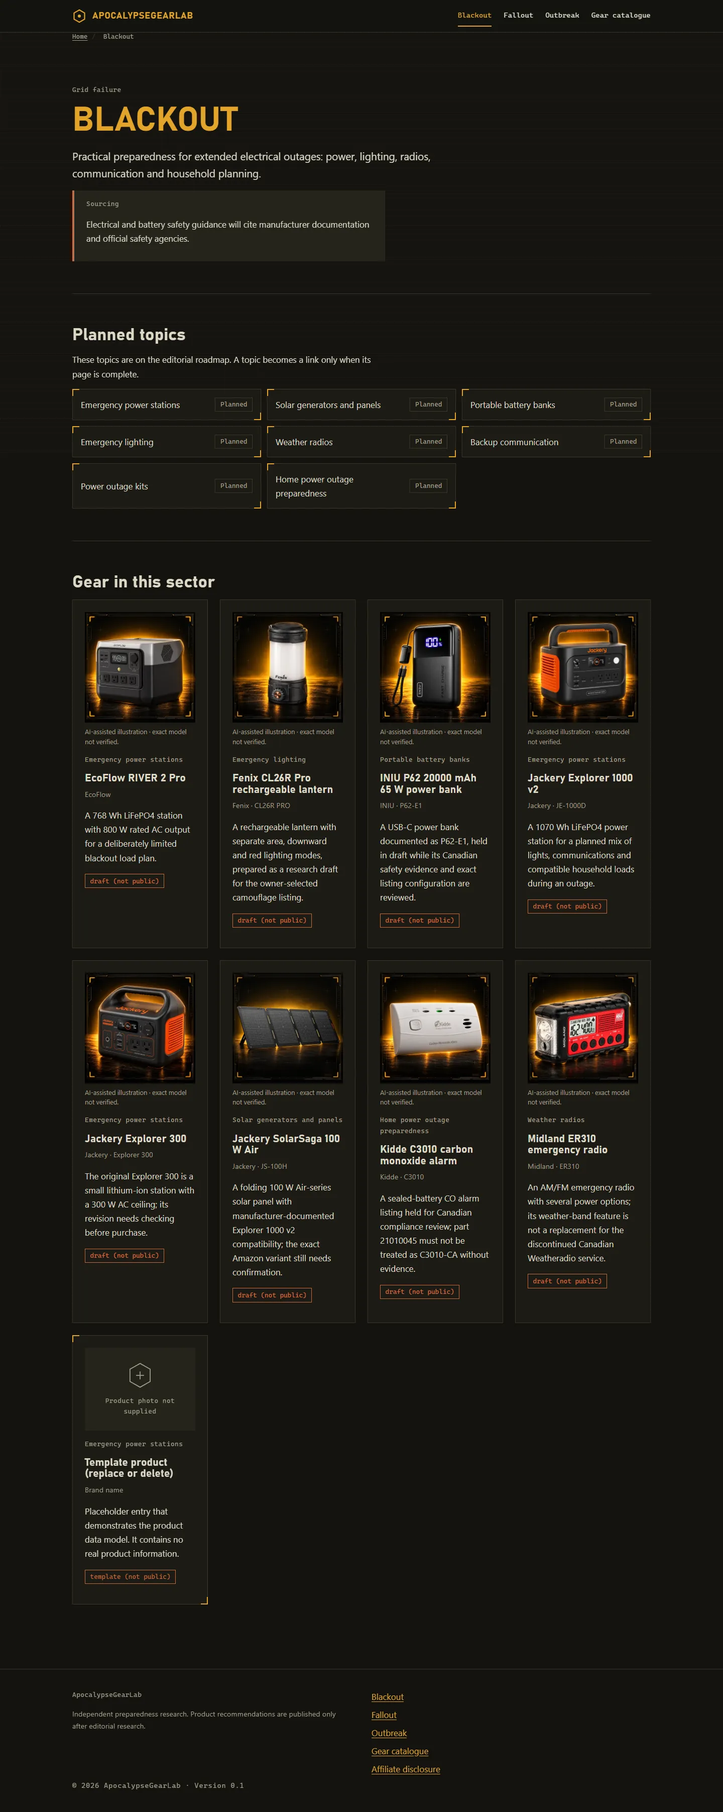
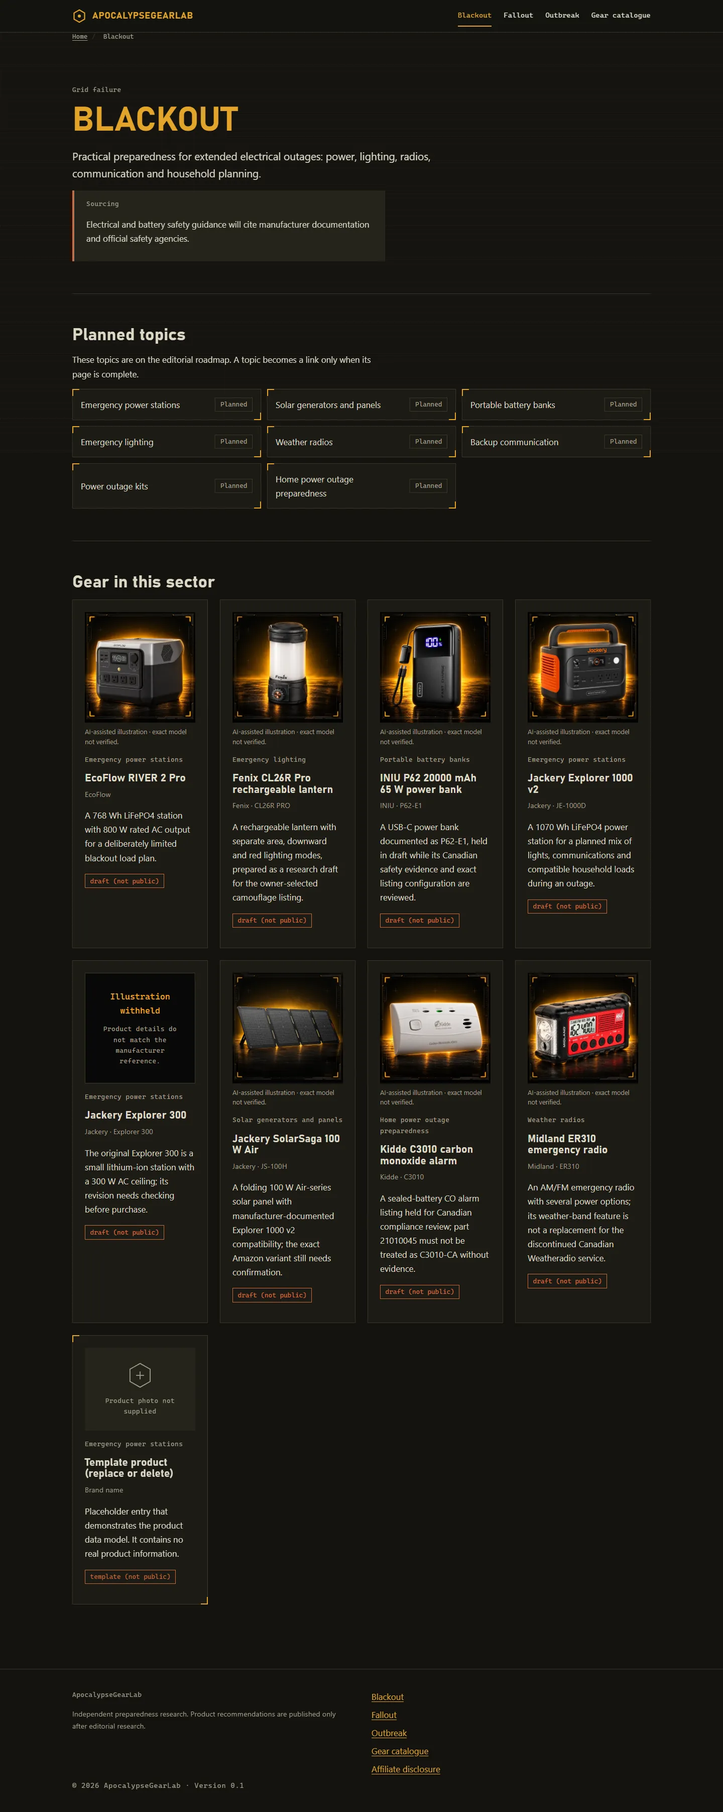
fix(visuals): withhold inaccurate Explorer 300 artwork and enforce media review

Changed region(s): [[0.0938, 0.528, 0.2812, 0.6833]]

diff --git a/tests/browser/media.spec.ts b/tests/browser/media.spec.ts
@@ -58,7 +58,13 @@ test('BLACKOUT artwork stays complete in cards and nested draft pages', async ({
     // Exclude Astro's development UI from site screenshots, without changing site content.
     await page.addStyleTag({ content: 'astro-dev-toolbar { display: none !important; }' });
     const images = page.locator('.product-artwork img');
-    await expect(images).toHaveCount(8);
+    await expect(images).toHaveCount(7);
+    const rejected = page.locator('article.card').filter({ has: page.locator('a[href="/gear/jackery-explorer-300/"]') });
+    await expect(rejected.locator('img')).toHaveCount(0);
+    await expect(rejected.locator('.artwork-withheld')).toContainText('Illustration withheld');
+    expect(await rejected.locator('.artwork-withheld').evaluate((element) => {
+      const box = element.getBoundingClientRect(); return Math.abs(box.width - box.height);
+    })).toBeLessThan(1);
     const sources: string[] = [];
     for (const img of await images.all()) {
       await img.scrollIntoViewIfNeeded();
@@ -72,7 +78,7 @@ test('BLACKOUT artwork stays complete in cards and nested draft pages', async ({
       expect(actual.alt).toMatch(/^AI-assisted illustration/);
       sources.push(actual.src);
     }
-    expect(new Set(sources).size).toBe(8);
+    expect(new Set(sources).size).toBe(7);
     await page.locator('article.card a').first().focus();
     expect(await page.locator('article.card a').first().evaluate((link) => getComputedStyle(link).outlineStyle)).toBe('solid');
     await page.locator('article.card a').first().evaluate((link: HTMLElement) => link.blur());
@@ -81,10 +87,43 @@ test('BLACKOUT artwork stays complete in cards and nested draft pages', async ({
   }
   await page.goto('http://127.0.0.1:4322/gear/fenix-cl26r-pro/');
   await expect(page.locator('.product-artwork--detail')).toHaveCount(1);
-  await expect(page.locator('.product-artwork--detail figcaption')).toContainText('not identified as an exact CL26R Pro depiction');
+  await expect(page.locator('.product-artwork--detail figcaption')).toContainText('consistent with the official CL26R Pro camouflage design');
   const detail = page.locator('.product-artwork--detail img');
   await detail.evaluate((img: HTMLImageElement) => img.decode());
   expect(await detail.evaluate((img: HTMLImageElement) => img.currentSrc)).toMatch(/fenix-lantern-blackout-960\.webp$/);
   await expect(page.locator('meta[name="robots"]')).toHaveAttribute('content', 'noindex, nofollow');
   await page.screenshot({ path: '.tools/qa/phase-3/detail-1920.png', fullPage: true });
+});
+
+test('rejected artwork has no image URL, download or static production asset', async ({ page, request }) => {
+  const downloads: string[] = [];
+  page.on('request', (req) => { if (req.resourceType() === 'image') downloads.push(req.url()); });
+  await page.goto('http://127.0.0.1:4322/gear/jackery-explorer-300/');
+  const artwork = page.locator('.product-artwork--detail');
+  await expect(artwork.locator('img')).toHaveCount(0);
+  await expect(artwork).toContainText('USB-C 100 W');
+  await expect(artwork).toContainText('Unsuitable for commercial publication');
+  expect(downloads.some((url) => url.includes('jackery-explorer-300-blackout'))).toBe(false);
+  for (const width of [480, 960]) {
+    expect((await request.get(`/images/jackery-explorer-300-blackout-${width}.webp`)).status()).toBe(404);
+  }
+  await page.screenshot({ path: '.tools/qa/phase-3/rejected-300.png', fullPage: true, animations: 'disabled' });
+});
+
+test('reviewed illustrations disclose their limits without displaying withdrawn objections', async ({ page }) => {
+  for (const slug of ['fenix-cl26r-pro', 'jackery-explorer-1000-v2']) {
+    await page.goto(`http://127.0.0.1:4322/gear/${slug}/`);
+    const figure = page.locator('.product-artwork--detail');
+    await expect(figure).toHaveAttribute('data-artwork-status', 'reviewed-illustration');
+    await expect(figure.locator('figcaption')).toContainText('consistent with the official');
+    await expect(figure.locator('figcaption')).toContainText('source-photo permissions remain unverified');
+    await expect(figure.locator('figcaption')).not.toContainText('earlier');
+    await figure.locator('img').evaluate((img: HTMLImageElement) => img.decode());
+    for (const width of [375, 1440]) {
+      await page.setViewportSize({ width, height: 900 });
+      await figure.screenshot({ path: `.tools/qa/phase-3/${slug}-${width}.png`, animations: 'disabled' });
+    }
+  }
+  await page.goto('http://127.0.0.1:4322/gear/jackery-explorer-300/');
+  await page.locator('.product-artwork--detail').screenshot({ path: '.tools/qa/phase-3/withheld-300.png', animations: 'disabled' });
 });

diff --git a/tests/media-policy.test.ts b/tests/media-policy.test.ts
@@ -1,0 +1,17 @@
+import assert from 'node:assert/strict';
+import test from 'node:test';
+import { canDisplayProductArtwork, assetReview } from '../src/lib/media-policy';
+
+test('rejected Explorer 300 artwork cannot render in development or production', () => {
+  assert.equal(assetReview('jackery-explorer-300')?.accuracyStatus, 'rejected');
+  assert.equal(canDisplayProductArtwork('jackery-explorer-300', true), false);
+  assert.equal(canDisplayProductArtwork('jackery-explorer-300', false), false);
+});
+test('reference review allows editorial previews without granting commercial permissions', () => {
+  for (const slug of ['fenix-cl26r-pro', 'jackery-explorer-1000-v2']) {
+    assert.equal(assetReview(slug)?.accuracyStatus, 'reviewed-illustration');
+    assert.equal(canDisplayProductArtwork(slug, true), true);
+    assert.equal(canDisplayProductArtwork(slug, false), false);
+  }
+  assert.equal(canDisplayProductArtwork('midland-er310', false), false);
+});

diff --git a/src/lib/media.ts b/src/lib/media.ts
@@ -6,9 +6,10 @@ export const heroMedia = manifest.assets.find((asset) => asset.id === 'hero')!;
 export function productMedia(slug: string): MediaAsset | undefined {
   return manifest.assets.find((asset) => asset.id !== 'hero' && asset.id === slug);
 }
-export function mediaUrl(src: string): string {
+export function mediaUrl(src: string | null): string {
+  if (!src) throw new Error('Rejected artwork has no public image URL');
   return `${import.meta.env.BASE_URL.replace(/\/$/, '')}/${src.replace(/^\//, '')}`;
 }
 export function mediaSrcset(asset: MediaAsset): string {
-  return asset.variants.map((variant) => `${mediaUrl(variant.src)} ${variant.width}w`).join(', ');
+  return asset.variants.filter((variant) => variant.src).map((variant) => `${mediaUrl(variant.src!)} ${variant.width}w`).join(', ');
 }

diff --git a/src/lib/media-policy.ts b/src/lib/media-policy.ts
@@ -1,0 +1,12 @@
+import review from '../data/media/review.json';
+
+type Review = { accuracyStatus: string; caption?: string; note: string; references: string[] };
+export function assetReview(slug: string): Review | undefined {
+  return (review.assets as Record<string, Review>)[slug];
+}
+export function canDisplayProductArtwork(slug: string, development: boolean): boolean {
+  // Review is independent of product approval. Pending reference-photo permissions
+  // must never become commercial approval merely by publishing a product record.
+  if (assetReview(slug)?.accuracyStatus === 'rejected') return false;
+  return development || (review.rightsStatus === 'confirmed-by-owner' && assetReview(slug)?.accuracyStatus === 'reviewed-illustration');
+}

diff --git a/docs/phase-3-final-review.md b/docs/phase-3-final-review.md
@@ -1,0 +1,79 @@
+# Phase 3 — final visual corrections & QA
+
+Reviewed 2026-10-25 on the existing `feat/phase3-blackout-visual-assets` branch. This update belongs to [PR #4](https://github.com/ApocalypseGearLab/apocalypsegearlab.github.io/pull/4). No new PR, merge, deploy or Phase 4 products.
+
+## 1. Findings and corrected review conclusions
+
+Comparison used the supplied 960 px illustrations, official product photos and manufacturer documentation. The owner's original reference-photo files were not separately provided; their provenance/permissions remain unverified. Manufacturer photos were downloaded only into ignored `.tools/references` for inspection and are neither committed nor used as replacement artwork.
+
+### Fenix CL26R Pro — retained, earlier objection withdrawn
+
+The earlier report called the upper marking invented model text. That was not supported: the [official gray camouflage photo](https://www.fenixlighting.com/cdn/shop/files/fenix-cl26r-pro-lantern-gray-combo.jpg?v=1755204684) also shows a similar serial-style marking in the same place. The [Fenix manufacturer page](https://www.fenixlight.com/product/cl26r-pro/) and [Fenix Lighting catalogue](https://www.fenixlighting.com/products/fenix-cl26r-pro-rechargeable-lantern) establish the CL26R Pro design. Housing, diffuser, hanging attachment, bronze dial and indicator row align with the supplied illustration. No material shape/control inconsistency was established by this comparison. The small inscription is not authenticated as a real unit's serial number. The review metadata and rendered caption are corrected; original WebP pixels are unchanged. This does not verify the Amazon listing, exact supplied unit or image rights.
+
+### Jackery Explorer 1000 v2 — retained, badge objection withdrawn
+
+The [official v2 product image](https://ca.jackery.com/cdn/shop/files/E1000v2.png?crop=center&height=400&v=1729760078&width=400) also carries an Explorer 1000 badge **without v2**. Missing v2 on that badge is not a defect. Comparison with the [official port/dimension diagram](https://ca.jackery.com/cdn/shop/files/PPS_fc1094ae-63fa-4ab7-904c-0400e02269dd.jpg?v=1784861865&width=750) supports the housing, raised handle, light, three AC outlets and USB control arrangement. [Jackery's JE-1000D information](https://faq.jackery.com/hc/en-us/articles/52303615153051-Explorer-1000-V2-Basic-Information) confirms 1500 W total AC, two USB-C outputs (100/30 W) and one USB-A output (18 W). The illustration remains promotional: its tiny display characters are not verified readings or technical evidence. Its WebP files are retained unchanged and the misleading earlier objection is removed from active captions/review.
+
+### Jackery Explorer 300 — rejected for commercial publication
+
+The [official legacy product photo](https://cdn.shopify.com/s/files/1/0607/3866/6677/products/PortablePowerStation300.jpg?v=1645603052), [manufacturer manual, page 3 / printed English page 01](https://r.jackery.net/productGuide/Jackery%20Explorer%20300%20user%20manual.pdf) and [technical support page](https://faq.jackery.com/hc/en-us/articles/52303678342683-Explorer-300-Basic-Information) show material differences:
+
+- Illustration: USB-C **100 W**; original model: **60 W maximum**.
+- Illustration: USB-A **15 W** labels; official photo/manual instead distinguish the Quick Charge port and the 5 V/2.4 A USB-A port. Relabeling both identically would misrepresent the actual port functions.
+- Illustration: circular battery graphic and altered small LCD characters; official photo: segmented battery-bar display and different input/output layout.
+- Illustration: **POWER** button marking; official photo: **DISPLAY**.
+
+General body/handle and two-outlet arrangement are recognizable, but a local numeric retouch would leave other false details. No speculative replacement was generated and no manufacturer photograph was copied into the site. The two existing WebP files are **rejected**, retained byte-for-byte in `assets/rejected/blackout/`, and removed from `public/images/`. This is a documented move for audit, not loss of the artwork. They remain visible in the public GitHub repository/history; quarantine means excluded from the built website, not confidential storage.
+
+## 2. Actual implementation corrections
+
+- `src/data/media/review.json`: explicit rejected/reviewed-illustration decisions, dated official references and commercial-rights status.
+- `src/lib/media-policy.ts`: rejects Explorer 300 in development and production. Other illustrations are previews only until the owner confirms source-photo rights and the individual artwork has a reviewed status. Product publication alone cannot grant media approval.
+- `src/components/ProductImage.astro`: square, accessible **Illustration withheld** state with an accurate explanation; no image/srcset request for rejected artwork. Detailed captions now report the corrected Fenix/v2 comparisons.
+- `src/lib/media.ts`: no public URL can be generated for quarantined variants; srcset omits non-public entries.
+- `src/data/media/manifest.json`: records storage path for all 19 variants, with null delivery URLs for the 2 rejected files; hashes/dimensions/bytes unchanged.
+- `scripts/image-sources.json`: replaces the unsupported earlier identity objections with the manufacturer comparison results.
+- `scripts/optimize-images.mjs`: any future explicit regeneration honors rejection and writes those outputs outside public. It was syntax-checked, not rerun over the collection during this correction.
+- `scripts/verify-images.mjs`, `tests/media-policy.test.ts`, `tests/browser/media.spec.ts`, `package.json`: verify the media gate, seven rendered images plus the withheld slot, 404 for rejected delivery URLs, all mapping/hash rules, and pending commercial permission.
+- `docs/phase-3-visual-report.md`, this report and current BLACKOUT screenshots: supersede the earlier accuracy conclusions. Home screenshot evidence remains valid because home implementation and hero files are unchanged.
+
+The approved charcoal grid, metallic/amber artwork, #F5A623 accents, complete square frames, keyboard focus and motion preferences are preserved. The withheld state is HTML/CSS, not an invented product rendering. No raster editing or new image-generation dependency was needed.
+
+## 3. WebP impact
+
+**No raster image was regenerated or recompressed. All 19 original WebP SHA-256 hashes remain identical.** Seven product illustrations (14 WebP variants) and the bunker (3 variants) remain in public. Two Explorer 300 variants, 147,978 B, move to the audit folder.
+
+Public delivery collection: **1,771,860 → 1,623,882 B**, a 8.35% reduction. No browser downloads the whole collection. Rejected card/detail requests now return 404 in the production preview. Updated QA screenshot files are documentation, not delivery assets.
+
+## 4. Homepage, SEO, accessibility and rendered QA
+
+The bunker implementation, H1, CTA, overlay, responsive source set and all 768/1280/1672 px WebP bytes are unchanged. The complete scene remains contain-based: desktop text sits in a dark panel; mobile text follows the intact scene. Hero is eager/high priority, has intrinsic dimensions, and downloads one responsive variant on initial mobile navigation. No new competing preload, script or image is added.
+
+Final Chromium tests cover **320, 375, 768, 1024, 1440 and 1920 px**, no overflow, square geometry, full retained artwork borders, decoded sources, withheld slot, keyboard focus, menu/Escape/skip link, reduced motion and axe WCAG 2 A/AA + 2.1 AA. Actual home, catalogue, Fenix detail and rejected Explorer 300 rendered screenshots were inspected. No new cropped frames, obscured H1/CTA or major image layout shift was found. No new Lighthouse run or field CWV measurement was made; the earlier report's lab measurements are historical and the unchanged hero's asset weights/loading attributes were reverified.
+
+Canonical URLs, titles/descriptions, robots, sitemap alias, breadcrumbs and affiliate disclosure remain unchanged. The production build still emits **7 HTML pages and 5 sitemap URLs**; all eight draft product pages remain excluded. Internal links and srcsets resolve, and the rejected files do not enter dist. Tests are limited to installed Chromium and axe, not Safari/Firefox or physical devices.
+
+Current evidence: [BLACKOUT desktop](qa/phase-3/blackout-1440.webp), [BLACKOUT mobile](qa/phase-3/blackout-375.webp), [homepage desktop](qa/phase-3/home-1440.webp), [homepage mobile](qa/phase-3/home-375.webp). These catalogue screenshots show development previews, not published recommendations.
+
+## 5. Final validation
+
+| Command | Actual result |
+|---|---|
+| npm run check | 0 errors, 0 warnings, 0 hints (42 files) |
+| npm test | 16/16, including media approval/rejection rules and existing product schema/ASIN checks |
+| npm run test:images | 9 original mappings; 17 public WebP files and 2 quarantined files; decoding, dimensions, hashes, metadata and draft guards pass |
+| npm run test:products | Three temporary published fixtures validated and removed; real site restored |
+| npm run build | Success, 7 real HTML pages |
+| npm run test:site | 7 pages, 117 internal references, srcsets, 5 sitemap URLs, robots and draft filtering pass |
+| npm run test:browser | 23/23 passed (51.2 s), including rejection URL/download checks and corrected rendered captions |
+| node --check scripts/optimize-images.mjs | Syntax verified; no collection recompression performed |
+
+GitHub validation links/results are recorded on the existing PR after pushing. No unsupported tests or current Lighthouse scores are claimed.
+
+## 6. Remaining blockers and verdict
+
+**Image-generation outputs do not automatically establish rights to the original reference photographs.** Owner confirmation of all necessary source-photo and commercial-use permissions remains pending. A visual match to a manufacturer photo grants no copying permission. Fenix/v2 comparisons establish promotional design consistency, not physical testing, certification, Amazon listing identity or rights. Other product artwork retains its existing identity caveats. Explorer 300 remains unsuitable for commercial publication and requires a separately supplied, accurate, permission-cleared replacement before it can be re-enabled.
+
+All eight product JSON files, ASINs, `apocalypsegear-20`, draft status, Kidde/INIU safety blockers, Associates configuration and product publication controls are unchanged. No six FALLOUT products were added. No source PNG was deleted, no product was published, no merge or deploy was triggered.
+
+**Verdict: MERGE for this engineering PR once checks pass.** The material Explorer 300 mismatch is excluded from delivery and protected by tests; unsupported Fenix/v2 objections are corrected with official evidence. This verdict approves the code for owner review, **not commercial publication or deployment**. Those remain subject to the explicit owner authorization and independent rights/editorial/safety requirements above. PR #4 remains unmerged.

diff --git a/docs/phase-3-visual-report.md b/docs/phase-3-visual-report.md
@@ -1,5 +1,7 @@
 # Phase 3 — visual integration review
 
+> **Final review supersedes the initial accuracy verdict below.** See [Final visual corrections & QA](phase-3-final-review.md). Explorer 300 artwork is now rejected and excluded from public; Fenix and Explorer 1000 v2 objections were corrected after official image comparison.
+
 ## A. Repository status
 
 Prepared on 2026-10-25 on `feat/phase3-blackout-visual-assets`. Initial local worktree was clean. PR #3 was already merged into `main` at `9fd293c0dbab358fc98a14fe03b2a5ed2ea3e898`; this feature branch starts there. The origin is `https://github.com/ApocalypseGearLab/apocalypsegearlab.github.io.git`. No local or remote main changes, merge, workflow dispatch or deployment were performed.
@@ -27,11 +29,11 @@ All eight product PNGs are 1254 × 1254 (1:1). The bunker PNG is 1672 × 941 (ap
 Material limitations found visually, before conversion:
 
 - **midland-er310:** Intended for ER310 research. Branding and radio design are recognizable; exact model and rendered display details are not independently verified.
-- **jackery-explorer-300:** Explorer 300 label is visible. Rendered USB-C 100 W marking conflicts with the researched original Explorer 300 specification; do not use the artwork as specification evidence.
+- **jackery-explorer-300:** Unsuitable for commercial publication: artwork says USB-C 100 W and USB-A 15 W, while the legacy model has USB-C 60 W and different USB-A/Quick Charge markings. Its circular LCD graphic and POWER label also differ from the official battery-bar display and DISPLAY button label. Repairing one number would leave other invented details; no replacement was fabricated.
 - **iniu-p62-20000mah-65w:** Intended for P62 research. P62-E1, capacity and output cannot be established from the artwork; cable design and exact model require owner review.
 - **ecoflow-river-2-pro:** Intended for RIVER 2 Pro research. EcoFlow branding and general housing are recognizable; no legible RIVER 2 Pro model identifier.
-- **jackery-explorer-1000-v2:** Intended for Explorer 1000 v2 research. Artwork says Explorer 1000 without v2; exact variant and rendered port labels require correction or confirmation before publication.
-- **fenix-cl26r-pro:** Intended for CL26R Pro research, not identified as an exact CL26R Pro depiction. Garbled model text and housing/dial details require artwork review; do not present as a verified model photograph.
+- **jackery-explorer-1000-v2:** The housing, raised handle, light, three AC outlets, two USB-C outputs and USB-A arrangement are consistent with the official Explorer 1000 v2 images. The official unit also has an Explorer 1000 badge without v2, so that earlier objection is withdrawn. Stylized small display lettering is not authenticated technical evidence; exact unit/listing and source-photo rights remain pending.
+- **fenix-cl26r-pro:** The camouflage housing, diffuser, dial, indicator row and upper serial-style marking are consistent with the official CL26R Pro catalogue image. The earlier claim of an invented model marking is withdrawn: a similar marking is visible in the official image. This visual comparison does not authenticate a unit, serial number, listing or source-photo rights.
 - **kidde-c3010-co-alarm:** Intended for C3010 research. Exact regional model and Canadian certification cannot be inferred from the rendered ten-year wording or appearance.
 - **jackery-solarsaga-100w-air:** Intended for SolarSaga 100 W Air research. No legible JS-100H Air identifier; folding layout alone does not verify the Air variant.
 
@@ -44,7 +46,7 @@ Every delivery file is WebP at quality 83, effort 6, sRGB, orientation corrected
 | Basename | Original PNG | WebP outputs, exact bytes |
 |---|---|---|
 | `midland-emergency-radio-blackout` | 1254 × 1254; 2,508,688 B | [midland-emergency-radio-blackout-480.webp](../public/images/midland-emergency-radio-blackout-480.webp) — 480 × 480; 46,628 B<br>[midland-emergency-radio-blackout-960.webp](../public/images/midland-emergency-radio-blackout-960.webp) — 960 × 960; 155,352 B |
-| `jackery-explorer-300-blackout` | 1254 × 1254; 2,289,225 B | [jackery-explorer-300-blackout-480.webp](../public/images/jackery-explorer-300-blackout-480.webp) — 480 × 480; 33,566 B<br>[jackery-explorer-300-blackout-960.webp](../public/images/jackery-explorer-300-blackout-960.webp) — 960 × 960; 114,412 B |
+| `jackery-explorer-300-blackout` | 1254 × 1254; 2,289,225 B | [jackery-explorer-300-blackout-480.webp](../assets/rejected/blackout/jackery-explorer-300-blackout-480.webp) — 480 × 480; 33,566 B<br>[jackery-explorer-300-blackout-960.webp](../assets/rejected/blackout/jackery-explorer-300-blackout-960.webp) — 960 × 960; 114,412 B |
 | `iniu-power-bank-blackout` | 1254 × 1254; 2,158,736 B | [iniu-power-bank-blackout-480.webp](../public/images/iniu-power-bank-blackout-480.webp) — 480 × 480; 27,878 B<br>[iniu-power-bank-blackout-960.webp](../public/images/iniu-power-bank-blackout-960.webp) — 960 × 960; 97,092 B |
 | `ecoflow-power-station-blackout` | 1254 × 1254; 2,042,716 B | [ecoflow-power-station-blackout-480.webp](../public/images/ecoflow-power-station-blackout-480.webp) — 480 × 480; 25,692 B<br>[ecoflow-power-station-blackout-960.webp](../public/images/ecoflow-power-station-blackout-960.webp) — 960 × 960; 82,078 B |
 | `jackery-explorer-1000-illustration-blackout` | 1254 × 1254; 2,055,300 B | [jackery-explorer-1000-illustration-blackout-480.webp](../public/images/jackery-explorer-1000-illustration-blackout-480.webp) — 480 × 480; 29,158 B<br>[jackery-explorer-1000-illustration-blackout-960.webp](../public/images/jackery-explorer-1000-illustration-blackout-960.webp) — 960 × 960; 85,866 B |
@@ -139,6 +141,6 @@ All eight products remain draft, not physically tested, listingVerified=false, p
 
 Feature branch: `feat/phase3-blackout-visual-assets`. A draft pull request targets main; its URL and CI result are returned in the delivery message. Publication still requires the owner's explicit authorization. The manual deployment workflow is untouched.
 
-## K. Verdict — CORRECT before commercial publication
+## K. Initial verdict — superseded by final visual review
 
-The implementation and automated checks support technical review of the feature branch. **CORRECT** is the publication verdict because the Explorer 300 port marking, Fenix identity/garbled model text and Explorer 1000 v2 ambiguity require owner review/correct artwork; the remaining exact regional/model variants are not visually established. Image usage rights and source-photo permissions also require owner confirmation. Product listing verification, editorial approval, Canadian safety review and Associates enrollment remain independent unresolved prerequisites. Keeping this PR draft makes those limits explicit. This verdict does not authorize merging or deployment.
+The initial review required further comparison. The [final review](phase-3-final-review.md) corrects the Fenix and Explorer 1000 v2 findings, rejects the Explorer 300 illustration and records the commercial-use gates and current QA results. Historical performance numbers above remain the initial integration measurements, not a new Lighthouse run.
